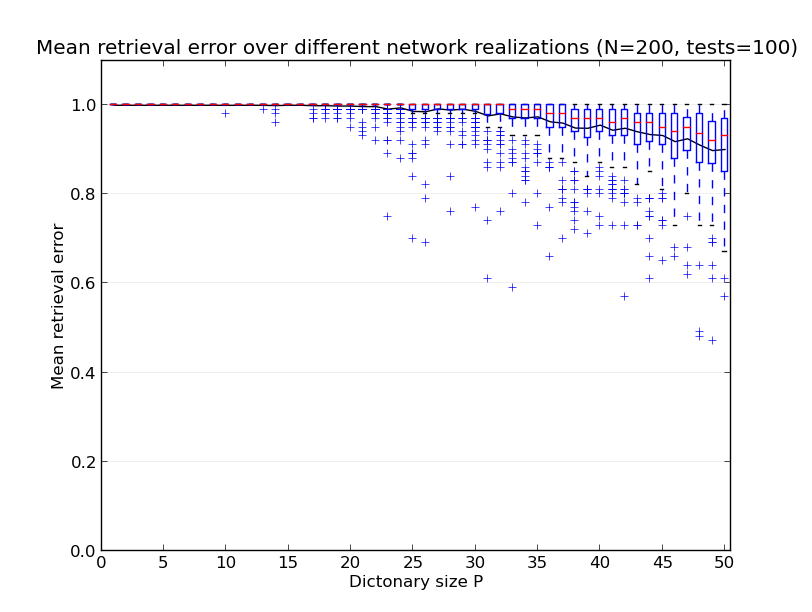
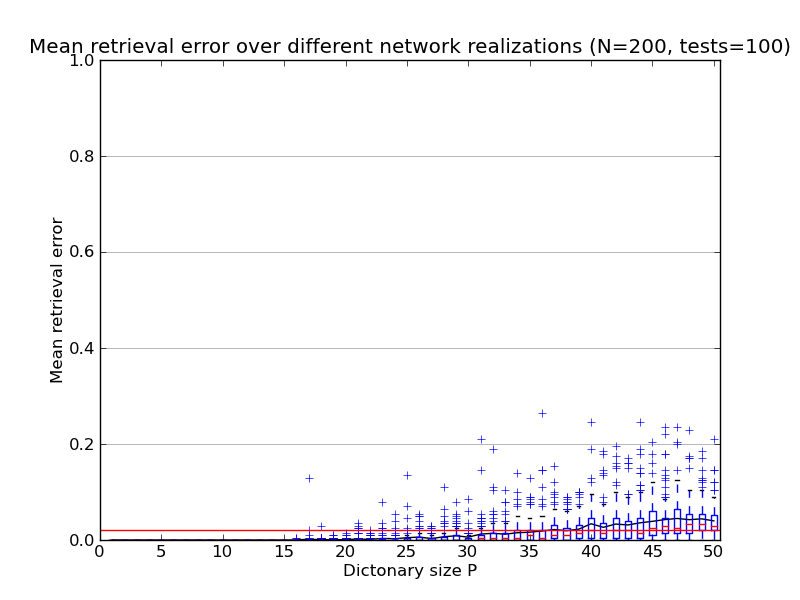
enjoy

diff --git a/src/exercise1_3_std.py b/src/exercise1_3_std.py
@@ -1,0 +1,60 @@
+from Hopfield import HopfieldNetwork
+from pylab import *
+from numpy import random, dot, max, min, divide
+
+def exercise1_3(N=200,P=50,tests=2):
+    '''
+    Set N = 200 and c = 0.1. Plot the mean retrieval error of 
+    a randomly chosen pattern averaged
+    over different network realizations as a function of
+    the dictionary size P . Average over enough
+    network realizations to give a smooth curve 
+    and give error bars for the estimation of the mean
+    (you can assume the variation to be normally distributed).
+    From your data points and the chosen
+    confidence interval, roughly estimate
+    a maximal P at which patterns can be retrieved from the
+    network with a mean retrieval error of less than 2%?
+    '''
+    
+    print "Exercise 1.3:"
+    h = HopfieldNetwork(N)
+    error = zeros((P,tests),float)
+    for p in range(P):
+        for q in range(tests):
+            if p > 0:
+                r = random.randint(0,p)
+            else:
+                r = 0
+            error[p,q]=(h.run(P=p+1, mu=r, flip_ratio=0.1, bPlot=False))
+    
+    print error;
+    max_error = max(error,axis=1)
+    min_error = min(error,axis=1)
+
+    stdev=np.std(error,axis=1)
+    meanvalues=np.mean(error,axis=1)
+    
+                
+        
+    fig = figure()
+    ax1 = fig.add_subplot(111)
+    lp = errorbar(range(1,P+1),meanvalues,stdev)
+    bp = boxplot(transpose(error))
+    axhline(y=0.02,linewidth=1, color='r')
+    
+    xticks(arange(0,P+1,P/10))
+    setp(lp,color='black')
+
+    ax1.set_ylim(0,1)
+    ax1.yaxis.grid(True,linestyle='-',which='major',color=(0.2,0.2,0.2),alpha=0.5)
+    ax1.set_axisbelow(True)
+    ax1.set_title('Mean retrieval error over different network realizations (N=%d, tests=%d)'%(N,tests))
+    ax1.set_ylabel('Mean retrieval error')
+    ax1.set_xlabel('Dictonary size P')
+    savefig('../tex/img/plots/error-avg-%d.png' % tests)
+    close()
+
+if __name__=="__main__":
+    exercise1_3()
+

diff --git a/src/Hopfield.py b/src/Hopfield.py
@@ -178,8 +178,7 @@ class HopfieldNetwork:
                 break
             x_old = copy(self.x)
 
-        draw()
-        print 'pattern recovered in %i time steps with final overlap %.3f and energy %.3f'%(i_fin,overlap[-1],energy[-1])
+        #print 'pattern recovered in %i time steps with final overlap %.3f and energy %.3f'%(i_fin,overlap[-1],energy[-1])
         
         if bPlot:
             show()
